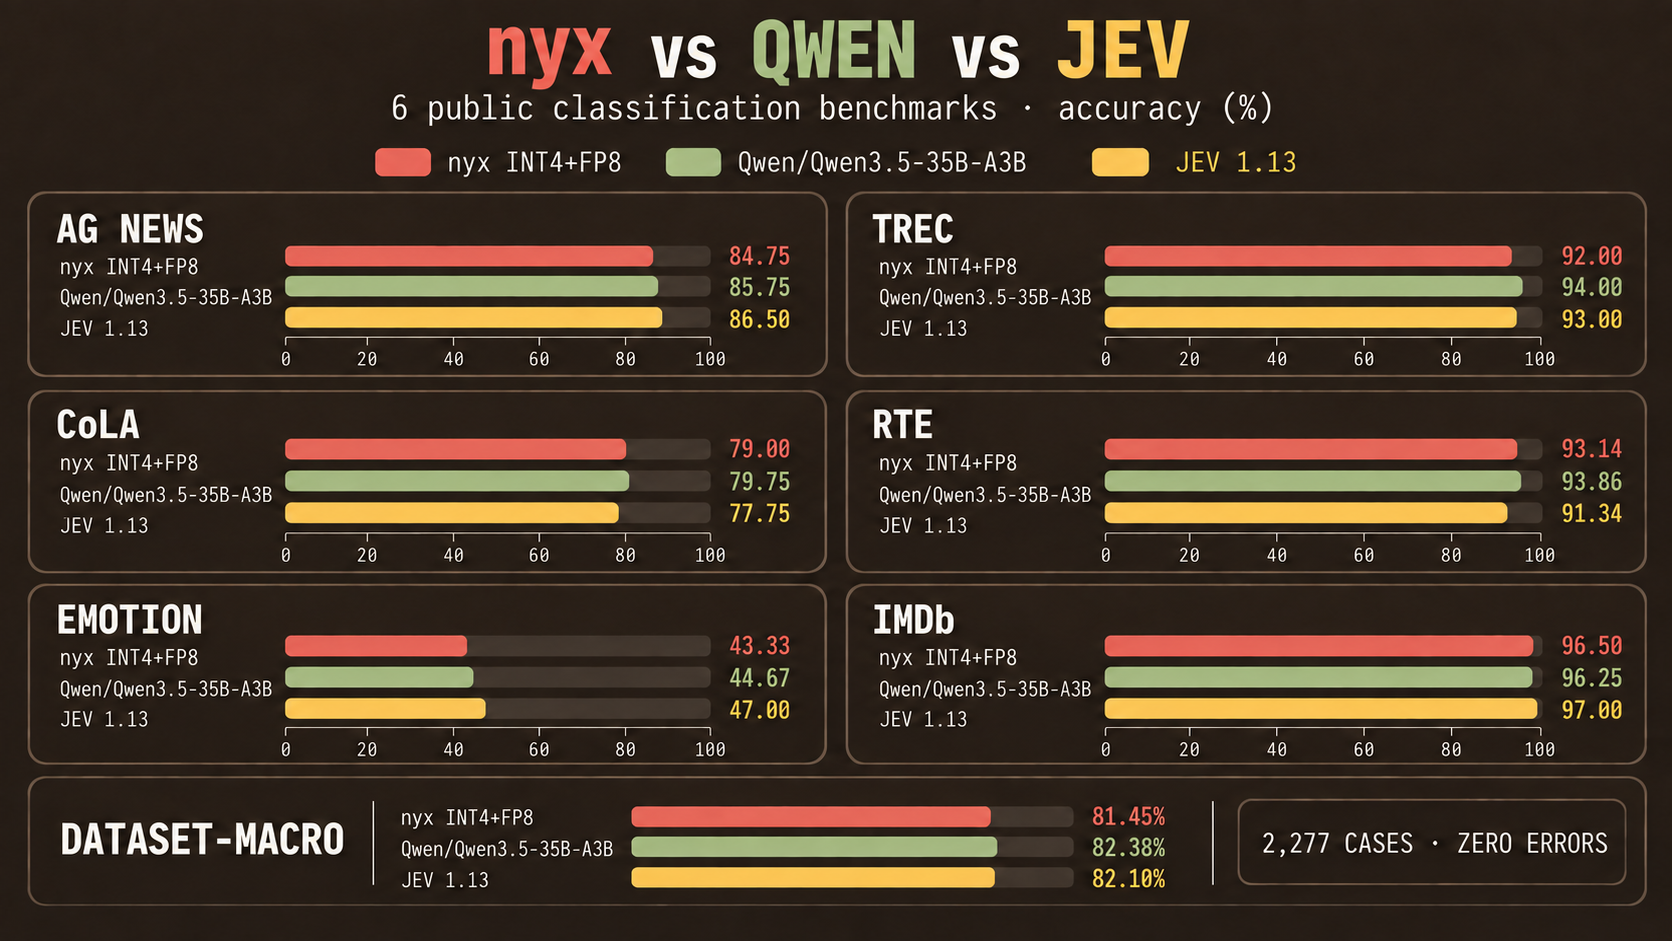
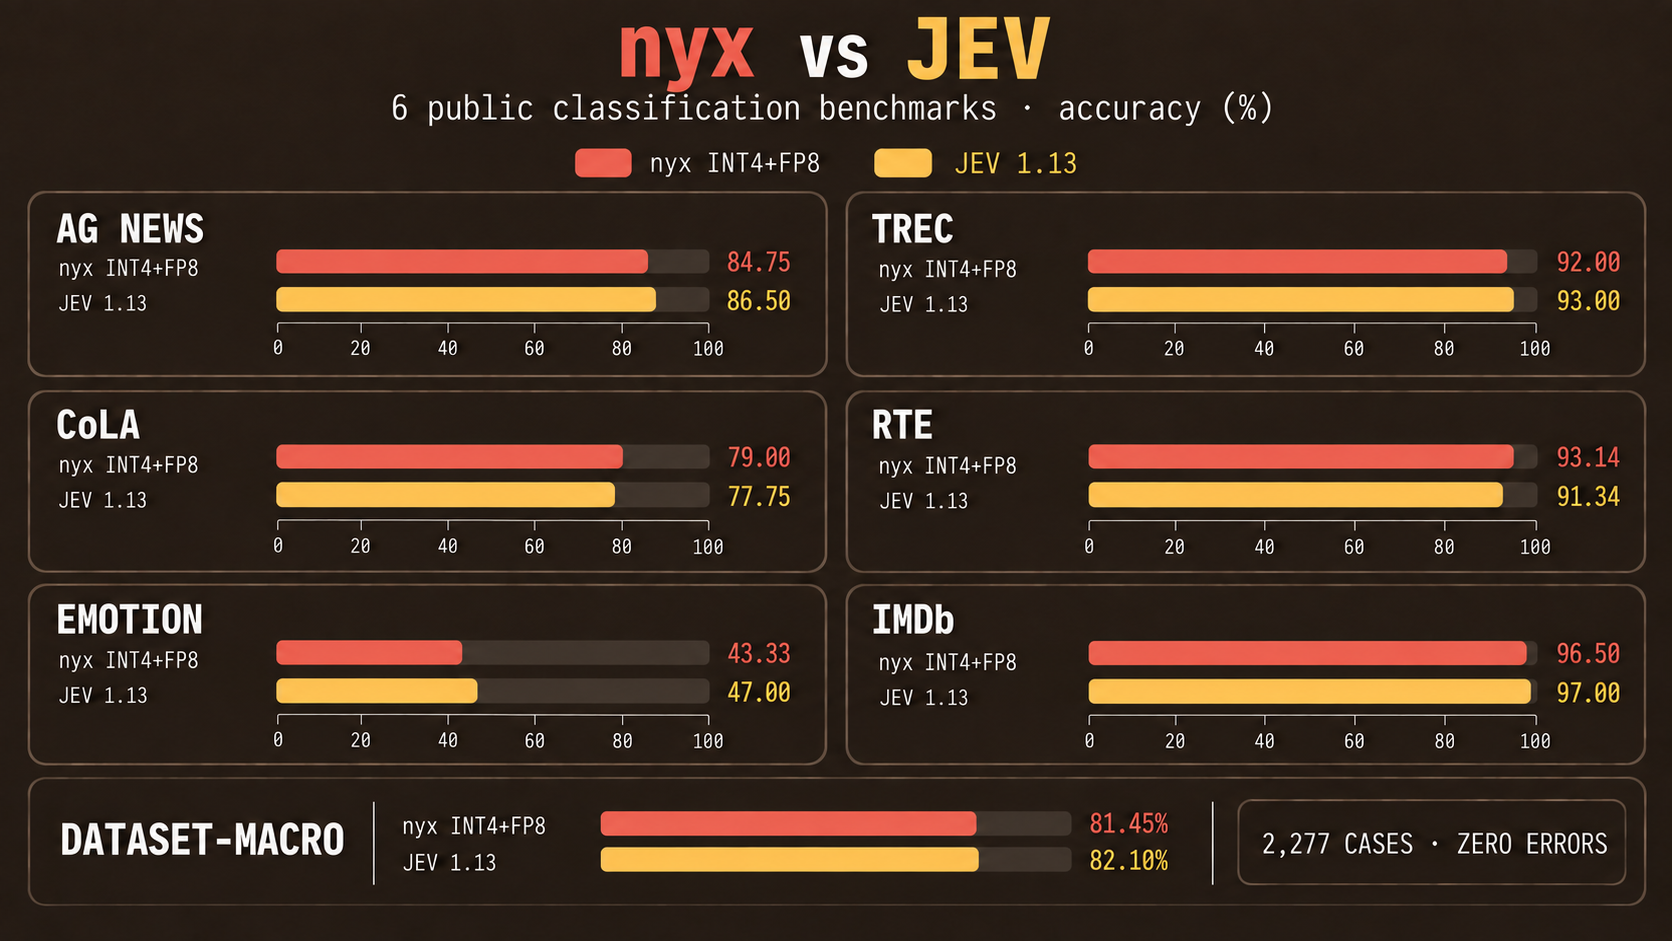
Focus public benchmarks on nyx and Jev

diff --git a/benchmarks/random-six.md b/benchmarks/random-six.md
@@ -2,34 +2,34 @@
 
[1 lines of base64/hex data omitted]
 
-| Dataset | Cases | nyx INT4+FP8 | Qwen/Qwen3.5-35B-A3B | Jev 1.13 |
-|---|---:|---:|---:|---:|
-| AG News | 400 | 84.75% (339/400) | 85.75% (343/400) | 86.50% (346/400) |
-| TREC coarse | 500 | 92.00% (460/500) | 94.00% (470/500) | 93.00% (465/500) |
-| CoLA | 400 | 79.00% (316/400) | 79.75% (319/400) | 77.75% (311/400) |
-| RTE | 277 | 93.14% (258/277) | 93.86% (260/277) | 91.34% (253/277) |
-| Emotion | 300 | 43.33% (130/300) | 44.67% (134/300) | 47.00% (141/300) |
-| IMDb | 400 | 96.50% (386/400) | 96.25% (385/400) | 97.00% (388/400) |
-
-| Aggregate | nyx INT4+FP8 | Qwen/Qwen3.5-35B-A3B | Jev 1.13 |
+| Dataset | Cases | nyx INT4+FP8 | Jev 1.13 |
 |---|---:|---:|---:|
-| Dataset-macro accuracy | 81.45% | 82.38% | 82.10% |
-| Dataset-macro F1 | 81.06% | 82.02% | 81.85% |
-| Pooled micro accuracy | 82.96% | 83.93% | 83.62% |
+| AG News | 400 | 84.75% (339/400) | 86.50% (346/400) |
+| TREC coarse | 500 | 92.00% (460/500) | 93.00% (465/500) |
+| CoLA | 400 | 79.00% (316/400) | 77.75% (311/400) |
+| RTE | 277 | 93.14% (258/277) | 91.34% (253/277) |
+| Emotion | 300 | 43.33% (130/300) | 47.00% (141/300) |
+| IMDb | 400 | 96.50% (386/400) | 97.00% (388/400) |
+
+| Aggregate | nyx INT4+FP8 | Jev 1.13 |
+|---|---:|---:|
+| Dataset-macro accuracy | 81.45% | 82.10% |
+| Dataset-macro F1 | 81.06% | 81.85% |
+| Pooled micro accuracy | 82.96% | 83.62% |
 
 ## Latency and throughput
 
-| Measurement | nyx INT4+FP8 | Qwen/Qwen3.5-35B-A3B | Jev 1.13 |
-|---|---:|---:|---:|
-| Backend inference, median | 62.97 ms | 74.45 ms | not exposed |
-| Backend inference, p95 | 85.30 ms | 97.38 ms | not exposed |
-| API handling, median | 63.89 ms | 75.70 ms | not exposed |
-| Round trip, mean | 70.79 ms | 83.49 ms | 188.13 ms |
-| Round trip, median | 66.25 ms | 78.23 ms | 182.33 ms |
-| Round trip, p95 | 89.22 ms | 101.82 ms | 245.12 ms |
-| Round trip, p99 | 128.93 ms | 160.57 ms | 310.42 ms |
-| Full-run wall time | 20,209.23 ms | 23,824.15 ms | 53,665.76 ms |
-| Sustained throughput | 112.67 req/s | 95.58 req/s | 42.43 req/s |
+| Measurement | nyx INT4+FP8 | Jev 1.13 |
+|---|---:|---:|
+| Backend inference, median | 62.97 ms | not exposed |
+| Backend inference, p95 | 85.30 ms | not exposed |
+| API handling, median | 63.89 ms | not exposed |
+| Round trip, mean | 70.79 ms | 188.13 ms |
+| Round trip, median | 66.25 ms | 182.33 ms |
+| Round trip, p95 | 89.22 ms | 245.12 ms |
+| Round trip, p99 | 128.93 ms | 310.42 ms |
+| Full-run wall time | 20,209.23 ms | 53,665.76 ms |
+| Sustained throughput | 112.67 req/s | 42.43 req/s |
 
 Backend inference and API handling are parsed from the local `Server-Timing` response header. Round trip is client-observed request-to-body completion. Jev did not expose server timing during this run.
 
@@ -37,12 +37,12 @@ Backend inference and API handling are parsed from the local `Server-Timing` res
 
 - Dataset selection, sampled examples, request order, and labels were frozen before any provider scoring.
 - AG News, CoLA, Emotion, and IMDb are fixed class-stratified samples; TREC test and RTE validation are complete.
-- Each HTTP request contained one Choice question. The three providers received identical JSON bodies in identical order over persistent HTTP/1.1 connections.
+- Each HTTP request contained one Choice question. Both providers received identical JSON bodies in identical order over persistent HTTP/1.1 connections.
 - Eight asynchronous client workers issued requests. The local SGLang runtime used continuous batching with `max-running-requests=64`; because client concurrency was eight, this run did not exercise batches above eight active requests.
-- The retry policy allowed three attempts for retryable HTTP statuses. All three runs completed 2,277/2,277 with zero errors and zero retries.
-- nyx and the original Qwen model ran sequentially on the same AMD Instinct MI325X and local API stack. Jev 1.13 ran over remote HTTPS on different, undisclosed infrastructure. Cross-service speed figures are descriptive, not a controlled kernel or hardware comparison.
-- Public-benchmark pretraining contamination is unknown for all three models. This finite suite does not establish universal classification quality.
+- The retry policy allowed three attempts for retryable HTTP statuses. Both runs completed 2,277/2,277 with zero errors and zero retries.
+- nyx ran on an AMD Instinct MI325X and local API stack. Jev 1.13 ran over remote HTTPS on different, undisclosed infrastructure. Cross-service speed figures are descriptive, not a controlled kernel or hardware comparison.
+- Public-benchmark pretraining contamination is unknown for both models. This finite suite does not establish universal classification quality.
 
 ## Paired comparison
 
-Exact two-sided McNemar tests use identical case-level predictions. Qwen-only versus nyx-only correct cases were 63 to 41 (`p=0.03896`); Jev-only versus nyx-only were 76 to 61 (`p=0.23154`); Qwen-only versus Jev-only were 66 to 59 (`p=0.59168`). None crosses the Bonferroni-adjusted threshold of `0.0167` for three comparisons.
+The exact two-sided McNemar test uses identical case-level predictions. Jev-only versus nyx-only correct cases were 76 to 61 (`p=0.23154`).

diff --git a/README.md b/README.md
@@ -2,7 +2,7 @@
 
 Production gateway and typed clients for [`devanshbatham/nyx`](https://huggingface.co/devanshbatham/nyx), a Qwen3.5-35B-A3B decision model with INT4 routed-expert storage and FP8 expert compute. It answers Choice, Score, and Noul questions through `POST /v1/systemone`; it does not generate chat text.
 
-![Six classification benchmarks comparing nyx, Qwen/Qwen3.5-35B-A3B, and Jev](assets/nyx-vs-jev-benchmarks.png)
+![Six classification benchmarks comparing nyx and Jev](assets/nyx-vs-jev-benchmarks.png)
 
 ## TypeSafe drop-in
 
@@ -27,21 +27,20 @@ This is wire compatibility, not behavioral identity: decisions, probabilities, c
 
 ## Performance
 
-These measurements use the same frozen 2,277 requests across AG News, TREC, CoLA, RTE, Emotion, and IMDb. Every provider received byte-equivalent request bodies at client concurrency 8, one Choice question per request, with zero errors or retries.
+These measurements use the same frozen 2,277 requests across AG News, TREC, CoLA, RTE, Emotion, and IMDb. Both models received byte-equivalent request bodies at client concurrency 8, one Choice question per request, with zero errors or retries.
 
 | System | Backend inference median / p95 | HTTP round trip median / p95 | Total wall time | Throughput |
 |---|---:|---:|---:|---:|
 | nyx INT4+FP8 | 62.97 / 85.30 ms | 66.25 / 89.22 ms | 20,209 ms | 112.67 req/s |
-| Qwen/Qwen3.5-35B-A3B | 74.45 / 97.38 ms | 78.23 / 101.82 ms | 23,824 ms | 95.58 req/s |
 | Jev 1.13 | not exposed | 182.33 / 245.12 ms | 53,666 ms | 42.43 req/s |
 
-nyx and the original Qwen model ran locally through the same API stack on one AMD Instinct MI325X. Jev ran over remote HTTPS on unmatched infrastructure, so its numbers describe observed round trip—not a controlled model-speed comparison. Backend inference comes from the local `Server-Timing` header. SGLang used continuous batching with `max-running-requests=64`; the benchmark's eight concurrent callers bounded the active batch envelope to eight. See [the complete benchmark](benchmarks/random-six.md).
+nyx ran locally through the API stack on one AMD Instinct MI325X. Jev ran over remote HTTPS on unmatched infrastructure, so its numbers describe observed round trip—not a controlled model-speed comparison. nyx backend inference comes from the local `Server-Timing` header; Jev did not expose server timing. SGLang used continuous batching with `max-running-requests=64`; the benchmark's eight concurrent callers bounded the active batch envelope to eight. See [the complete benchmark](benchmarks/random-six.md).
 
-| Metric | nyx INT4+FP8 | Qwen/Qwen3.5-35B-A3B | Jev 1.13 |
-|---|---:|---:|---:|
-| Dataset-macro accuracy | 81.45% | 82.38% | 82.10% |
-| Dataset-macro F1 | 81.06% | 82.02% | 81.85% |
-| Pooled accuracy | 82.96% | 83.93% | 83.62% |
+| Metric | nyx INT4+FP8 | Jev 1.13 |
+|---|---:|---:|
+| Dataset-macro accuracy | 81.45% | 82.10% |
+| Dataset-macro F1 | 81.06% | 81.85% |
+| Pooled accuracy | 82.96% | 83.62% |
 
 ## Hardware
 
